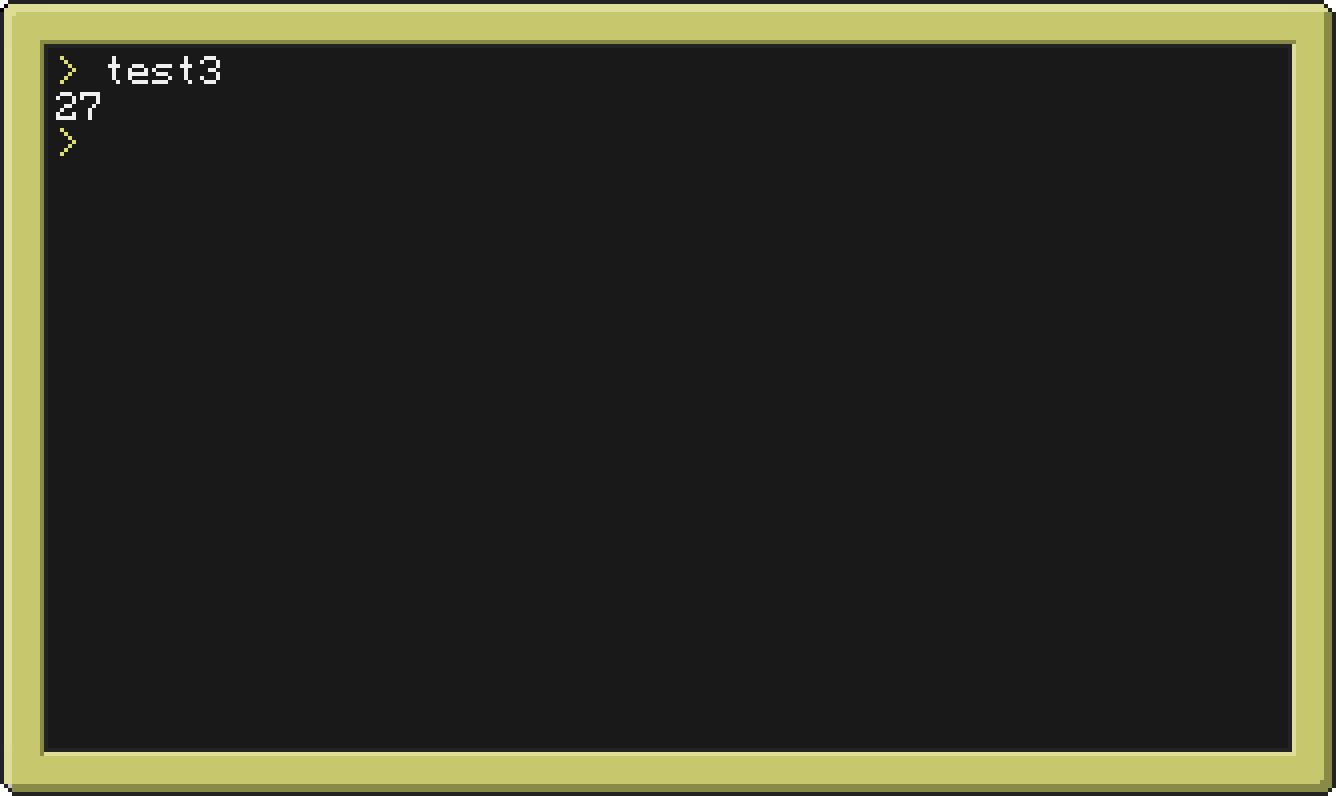
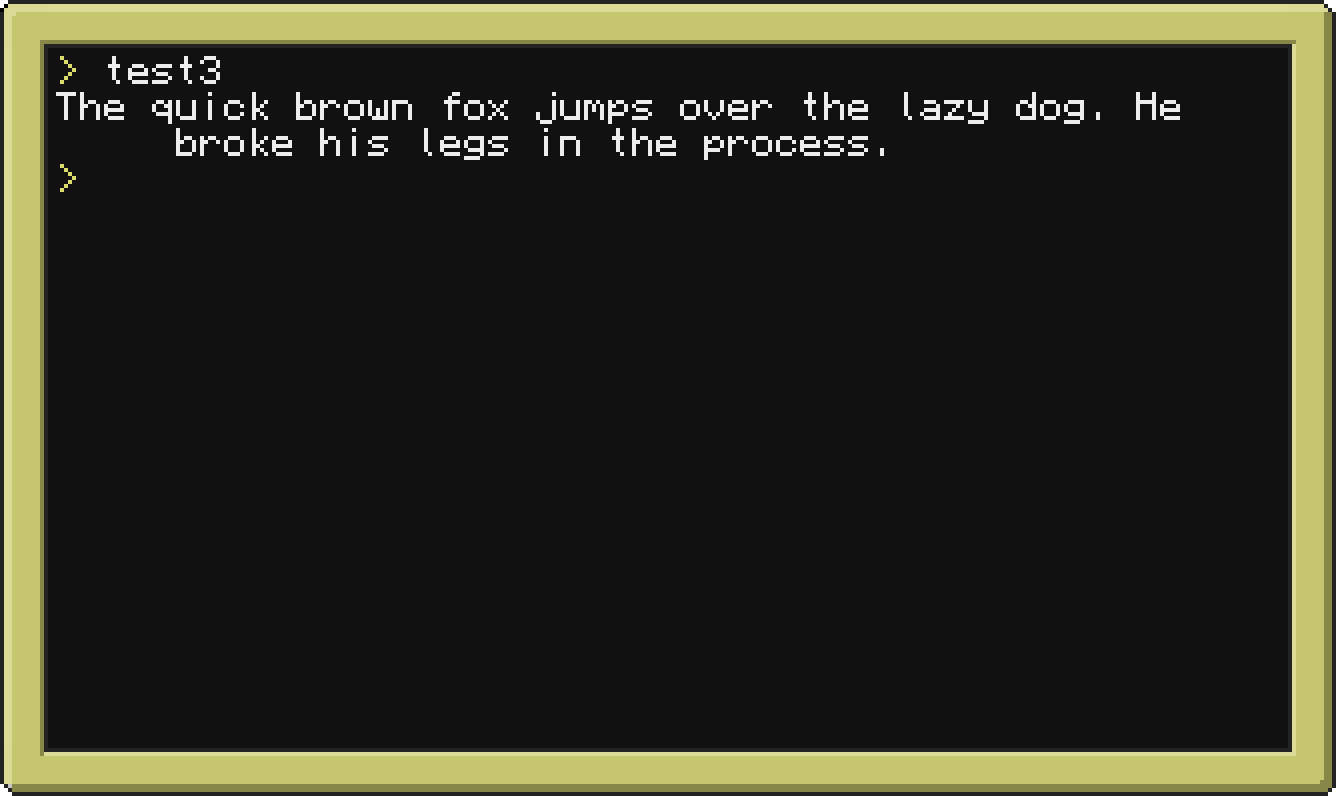
Update readme to reflect all the new changes in version 1.1

Changed region(s): [[0.0307, 0.1206, 0.6445, 0.2111], [0.6751, 0.1206, 0.89, 0.1508]]

diff --git a/README.md b/README.md
@@ -1,6 +1,6 @@
 # ProperPrint
-![projectstage](https://img.shields.io/badge/project%20stage-alpha-yellow)
-![projectstage](https://img.shields.io/badge/version-1.0-yellow)
+![projectstage](https://img.shields.io/badge/project%20stage-release-green)
+![projectstage](https://img.shields.io/badge/version-1.1-green)
 [![license](https://img.shields.io/github/license/computercraft-package-tool/properprint)](https://github.com/computercraft-package-tool/properprint/blob/main/LICENSE)
 [![issues](https://img.shields.io/github/issues/computercraft-package-tool/properprint)](https://github.com/computercraft-package-tool/properprint/issues)<br>
 [![contributors](https://img.shields.io/github/contributors/computercraft-package-tool/properprint)](https://github.com/computercraft-package-tool/properprint/graphs/contributors)
@@ -13,7 +13,7 @@
 Library for the minecraft mod **ComputerCraft/CC: Tweaked** to print in terminal with indentation  
 
 ## How to install 
-FileUtils can be installed using the [ComputerCraft Package Tool](https://github.com/computercraft-package-tool/ccpt) by using the following commands:
+ProperPrint can be installed using the [ComputerCraft Package Tool](https://github.com/computercraft-package-tool/ccpt) by using the following commands:
 
 Install CCPT, only run if you havn't installed it yet:
 ```
@@ -23,13 +23,30 @@ If you install CCPT, this library will also be installed as CCPT depends on it. 
 ```
 ccpt info pprint
 ```
-The library will now be stored in "/lib/properprint".
+The library will now be stored in "/lib/properprint.lua".
 
 ## How to use
-1. As shown here, when using the function **properprint.pprint([texttoprint])**, every line from the second line onwards has one space of indentation.
-<br>Content of '*test*':
+### 1. **Include in your project**
+
+The ProperPrint library can be included in your project by using the older ```dofile(...)```-method, or the newer ```require(...)```-method (availible only in [CC: Tweaked](https://tweaked.cc/)):
+
 ```lua
-os.loadAPI("properprint")
+-- Using dofile(...)
+local properprint = dofile("/lib/properprint.lua")
+-- Using require(...)
+local properprint = require("lib.properprint")
+```
+
+In both instances, the methods of the library can be accessed as members of the return value of the method, e.g. ```properprint.pprint(...)```.
+
+**Using *os.loadAPI("lib/properprint")* in order to include the library won't work anymore!** See also [deprecation notice](https://tweaked.cc/module/os.html#v:loadAPI) of the method.
+
+### 2. Printing a block of text
+When using the function **properprint.pprint([texttoprint])**, every line from the second line onwards gets indendented for better readability. By default, the lines are indendented by one character.
+
+Content of "*test*":
+```lua
+local properprint = require("lib.properprint")
 properprint.pprint("The quick brown fox jumps over the lazy dog. He broke his legs in the process.")
 ```
 Output:
@@ -37,30 +54,45 @@ Output:
     alt="test1"
     src="https://raw.githubusercontent.com/computercraft-package-tool/properprint/main/img/properprint_test.png"
 /><br>  
-2. As shown here, when using the function **properprint.pprint([texttoprint],[indentation])**, every line from the second line onwards still has one space more of indentation, but every line has the specified amount of spaces as indentation added by default.
-<br>Content of '*test2*':
+### 3. Setting the overall indentation amount
+The function **properprint.pprint([texttoprint],[defaultindentation])** takes an optional parameter, specifying the default indentation. The overall format remains, but every line has the specified amount of characters as indentation added on top.
+
+Content of "*test2*":
 ```lua
-os.loadAPI("properprint")
-properprint.pprint("The quick brown fox jumps over the lazy dog. He broke his legs in the process.",5)
+local properprint = require("lib.properprint")
+properprint.pprint("The quick brown fox jumps over the lazy dog. He broke his legs in the process.", 5)
 ```
 Output:
 <br><img
     alt="test2"
     src="https://raw.githubusercontent.com/computercraft-package-tool/properprint/main/img/properprint_test2.png"
-/><br>
-3. As shown here, you can use the function **getLastCharPosition([haystack],[needle])** to find the last position of a character in a string. Though that's not the main purpose of the library and appeared more as a helper function, maybe it's useful to you.
-<br>Content of '*test3*':
+/>
+### 4. Customizing the indendation amount when printing multiple lines
+Finally, the function **properprint.pprint([texttoprint],[defaultindentation],[nextlineindendation])** takes one more optional parameter. It specifies the amount of characters by which the second line onwards is indented compared to the first line.
+
+Content of "*test3*":
 ```lua
-os.loadAPI("properprint")
-print(properprint.getLastCharPosition("So long, and thanks for all the fish!","l"))
+local properprint = require("lib.properprint")
+properprint.pprint("The quick brown fox jumps over the lazy dog. He broke his legs in the process.", 0, 5)
 ```
 Output:
 <br><img
     alt="test2"
     src="https://raw.githubusercontent.com/computercraft-package-tool/properprint/main/img/properprint_test3.png"
-/><br>
+/>
+
+## Changelog
+**Version 1.1**
+- Added third parameter to ```properprint.pprint(...)``` to set line indentation difference from the second line onwards
+- Major rewrite of the code to remove recursion, improve performance and make the code more readable. Also adding proper comments for the first time :)
+- Made ```getLastCharPosition(...)``` only local method within the library, no longer accessible to the outside (only a helper method, not the purpose of the library). If you still need it, feel free to copy it from [properprint.lua](https://github.com/computercraft-package-tool/properprint/blob/main/properprint.lua) into your own code.
+- Update method to include the library using ```dofile(...)``` or ```require(...)```, as ```os.loadAPI(...)``` is (rightfully) [deprecated]((https://tweaked.cc/module/os.html#v:loadAPI))
+- Add ```.lua```-extension to the library file (syntax highlighting in editors etc.). The only reason we did not have this before is that file extensions did not work with ```os.loadAPI(...)```, which is no longer supported with ProperPrint version 1.1 anyways.
+
+
 ## Last words
-Well, thats basicly all there is to say! This library is very small, but it is what it is. If you find bugs, please report them so I can fix them.  
-This is my first time publishing something on github, so feel free to point out things I could do better. Also, english is not my first language, so if you find any spelling/language-related mistakes, please tell me.  
+Well, thats basicly all there is to say! This library is very small, but it is what it is.  
+If you find bugs, please create an issue so I can fix them.   
+I'm not that confident with GitHub yet, so feel free to point out things I could do better. Also, english is not my first language, so if you find any spelling/language-related mistakes, please do also create an issue.  
 Have a nice day,  
 PentagonLP
